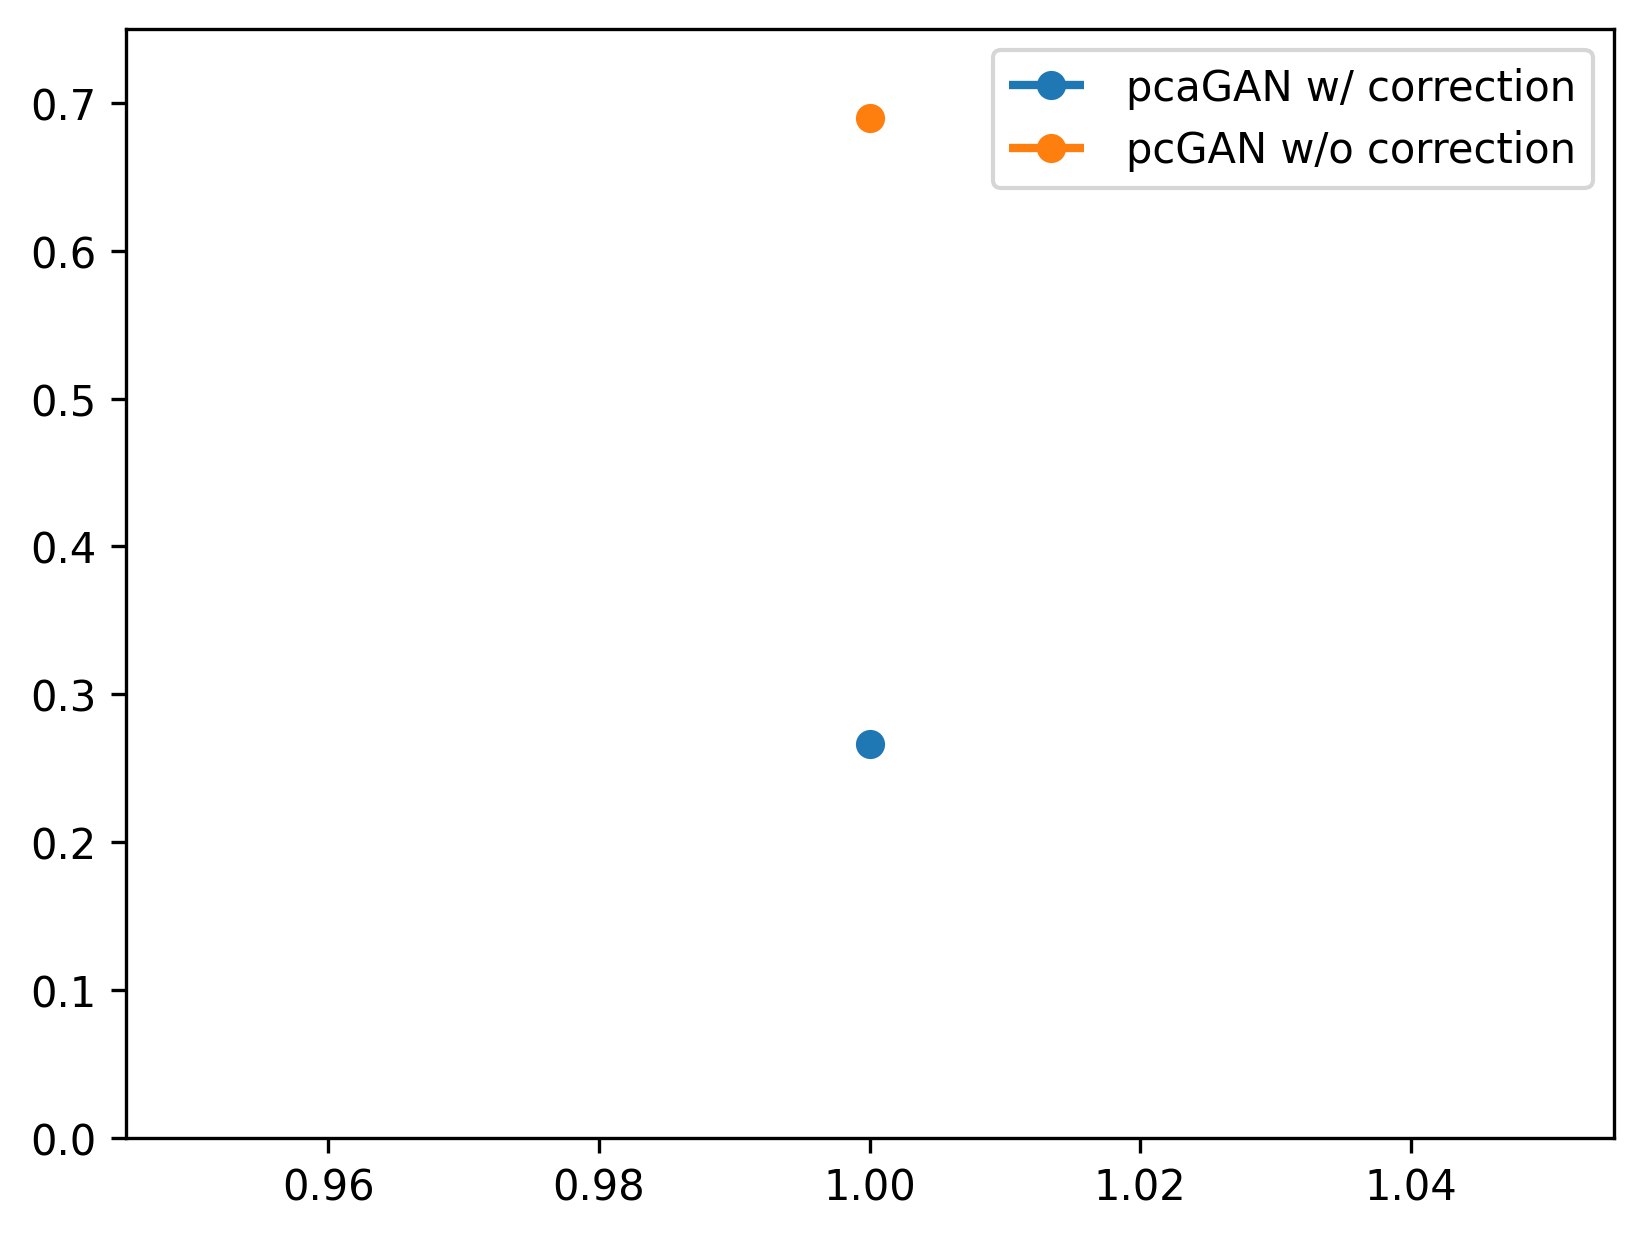
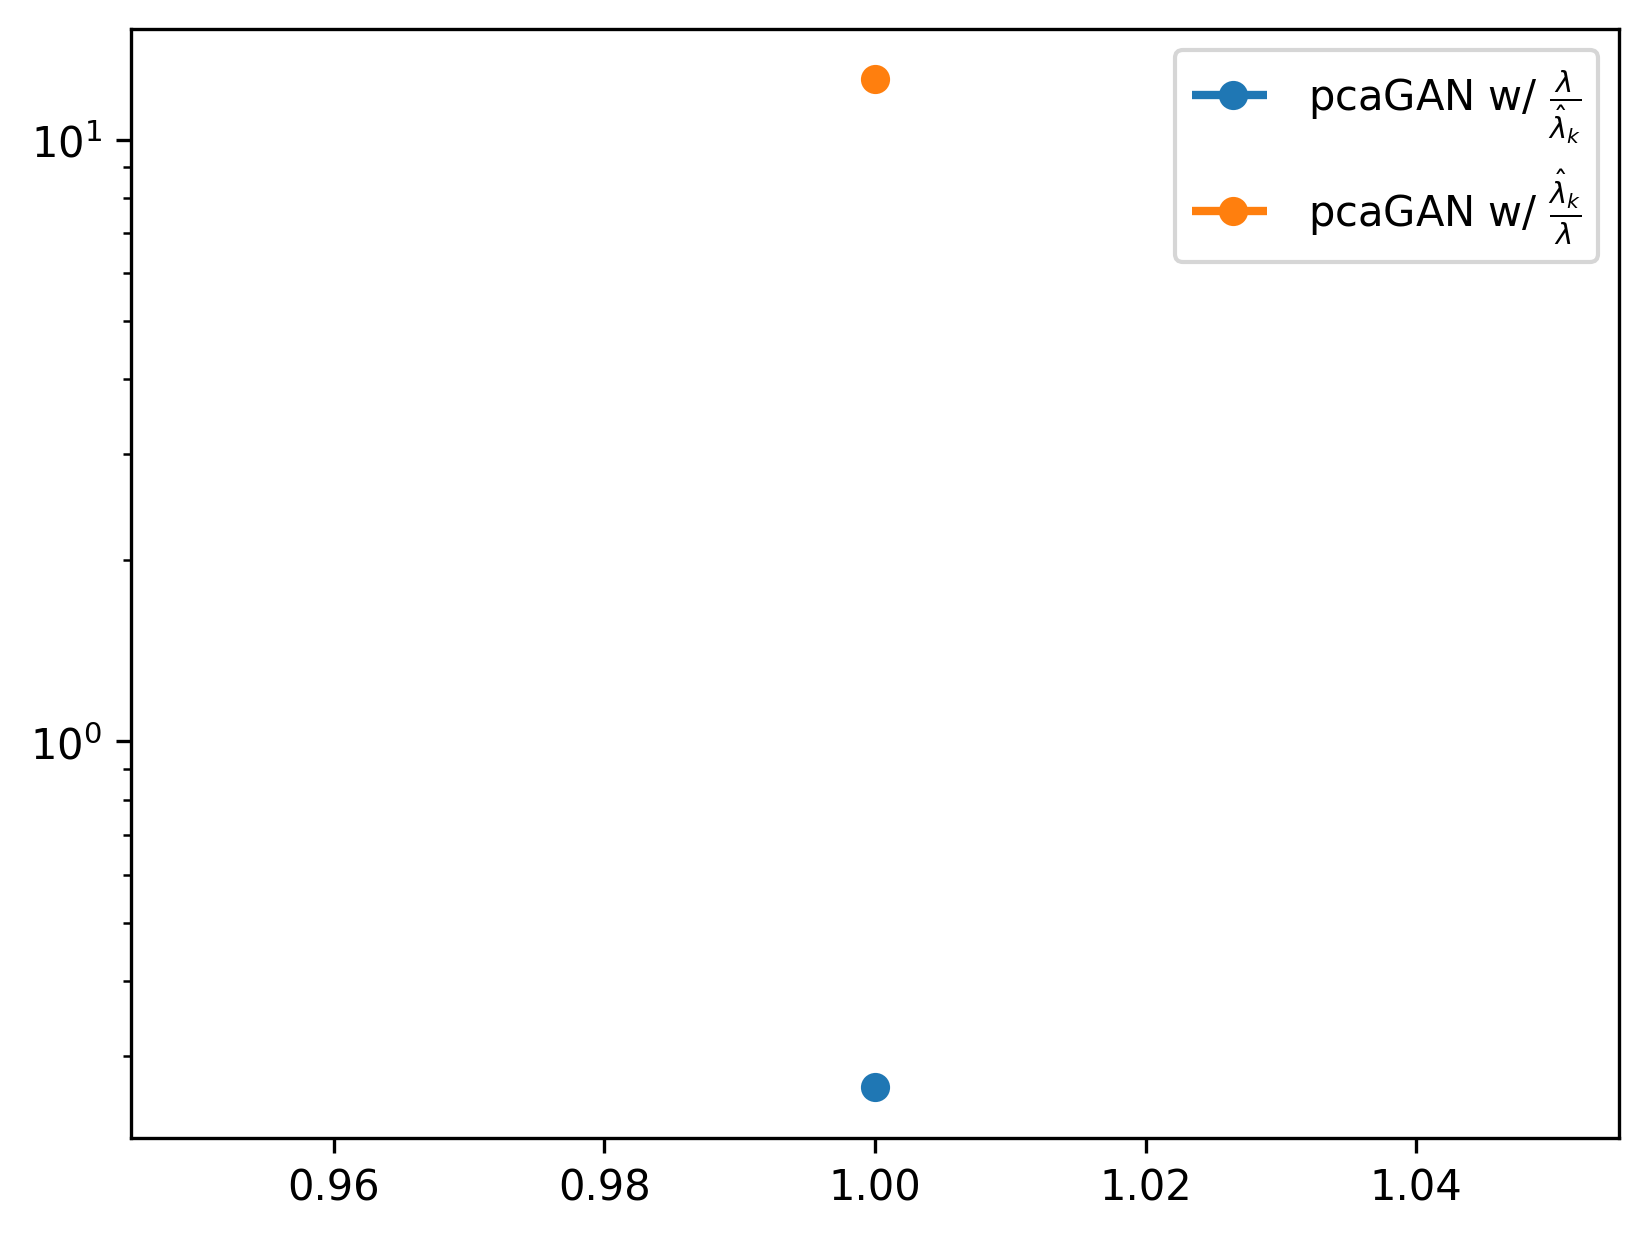
Moved notebook to script

diff --git a/test_plot.py b/test_plot.py
@@ -13,26 +13,32 @@ freq_vals = [1, 50, 100, 150, 200]
 k_vals = [5, 10, 25, 50, 100]
 
 # Add dots
-plt.semilogy(d_vals, covs_rcgan_lazy, marker='o', linestyle='dashed', linewidth=2, markersize=6)
-plt.semilogy(d_vals, covs_rcgan, marker='o', linestyle='dashed', linewidth=2, markersize=6)
-plt.semilogy(d_vals, np.array(covs_pca), marker='o', linestyle='dashed', linewidth=2, markersize=6)
+plt.figure(figsize=(6.4, 4.8))
+plt.semilogy(d_vals, covs_rcgan_lazy, marker='o', linewidth=4, markersize=8)
+plt.semilogy(d_vals, covs_rcgan, marker='o', linewidth=4, markersize=8)
+plt.semilogy(d_vals, np.array(covs_pca), marker='o', linewidth=4, markersize=8)
+plt.xticks(fontsize=14)
+plt.yticks(fontsize=14)
 plt.legend(['pcaGAN', 'rcGAN', 'NPPC'])
-plt.savefig('cfid_v_d.png', bbox_inches='tight', dpi=300)
+plt.savefig('cfid_v_d.png', dpi=300)
 
-plt.figure()
-plt.plot(freq_vals, covs_rcgan_lazy_freqs, marker='o', linestyle='dashed', linewidth=2, markersize=6)
+plt.figure(figsize=(6.4, 4.8))
+plt.plot(freq_vals, covs_rcgan_lazy_freqs, marker='o', linewidth=4, markersize=8)
 plt.ylim([0, 0.5])
 plt.xlim([-5, 205])
-plt.savefig('cfid_v_freq.png', bbox_inches='tight', dpi=300)
+plt.xticks(fontsize=14)
+plt.yticks(fontsize=14)
+plt.savefig('cfid_v_freq.png', dpi=300)
 
-plt.figure()
-plt.semilogx(k_vals, covs_rcgan_lazy_k, marker='o', linestyle='dashed', linewidth=2, markersize=6)
+plt.figure(figsize=(6.4, 4.8))
+plt.semilogx(k_vals, covs_rcgan_lazy_k, marker='o', linewidth=4, markersize=8)
 plt.ylim([0, 0.5])
-plt.savefig('cfid_v_k.png', bbox_inches='tight', dpi=300)
+plt.xticks(fontsize=14)
+plt.yticks(fontsize=14)
+plt.savefig('cfid_v_k.png', dpi=300)
 
 plt.figure()
-plt.plot([1], [0.2662], marker='o', linestyle='dashed', linewidth=2, markersize=6)
-plt.plot([1], [0.69], marker='o', linestyle='dashed', linewidth=2, markersize=6)
-plt.ylim([0, 0.75])
-plt.legend(['pcaGAN w/ correction', 'pcGAN w/o correction'])
-plt.savefig('cfid_v_x_corr.png', bbox_inches='tight', dpi=300)
+plt.semilogy([1], [0.2662], marker='o', linestyle='dashed', linewidth=3, markersize=6)
+plt.semilogy([1], [12.59], marker='o', linestyle='dashed', linewidth=3, markersize=6)
+plt.legend([r'pcaGAN w/ $\frac{\lambda}{\hat{\lambda}_k}$', r'pcaGAN w/ $\frac{\hat{\lambda}_k}{\lambda}$'])
+plt.savefig('cfid_v_lambda_placement.png', bbox_inches='tight', dpi=300)

diff --git a/test_rcgan.py b/test_rcgan.py
@@ -187,7 +187,7 @@ if __name__ == '__main__':
     x_axis = np.arange(args.d) + 1
 
     # labels = ['True', 'rcGAN + lazy reg']
-    labels = ['True', 'rcGAN', 'rcGAN + lazy reg', 'NPPC']
+    labels = ['True', 'rcGAN', 'pcaGAN', 'NPPC']
     # labels = ['True', 'rcGAN', 'rcGAN + lazy reg', 'rcGAN + lazy reg - std.', 'PCANET']
 
     plt.figure()
@@ -248,13 +248,13 @@ if __name__ == '__main__':
 
     for i in range(5):
         plt.figure()
-        # plt.scatter(x_axis, np.abs(e_vecs[:, -(i+1)]))
-        plt.plot(x_axis, np.abs(np.abs(e_vecs_hat[i, :]) - np.abs(e_vecs[:, -(i+1)])))
-        plt.plot(x_axis, np.abs(np.abs(e_vecs_hat_lazy_reg[i, :]) - np.abs(e_vecs[:, -(i+1)])))
+        plt.scatter(x_axis, np.abs(e_vecs[:, -(i+1)]))
+        plt.plot(x_axis, np.abs(np.abs(e_vecs_hat[i, :])))
+        plt.plot(x_axis, np.abs(np.abs(e_vecs_hat_lazy_reg[i, :])))
         # plt.plot(x_axis, np.abs(e_vecs_hat_no_std[i, :]))
-        plt.plot(x_axis, np.abs(np.abs(e_vecs_nppcs[i, :]) - np.abs(e_vecs[:, -(i+1)])))
-        plt.legend(['rcGAN', 'rcGAN + lazy reg', 'NPPC'])
-        plt.title(f'Eigenvector Error {i+1}')
+        plt.plot(x_axis, np.abs(np.abs(e_vecs_nppcs[i, :])))
+        plt.legend(['True', 'rcGAN', 'pcaGAN', 'NPPC'])
+        plt.title(f'Eigenvector {i+1}')
         plt.savefig(f'figs/eig_vec_compare_{args.d}_{i}.png')
         plt.close()
 
